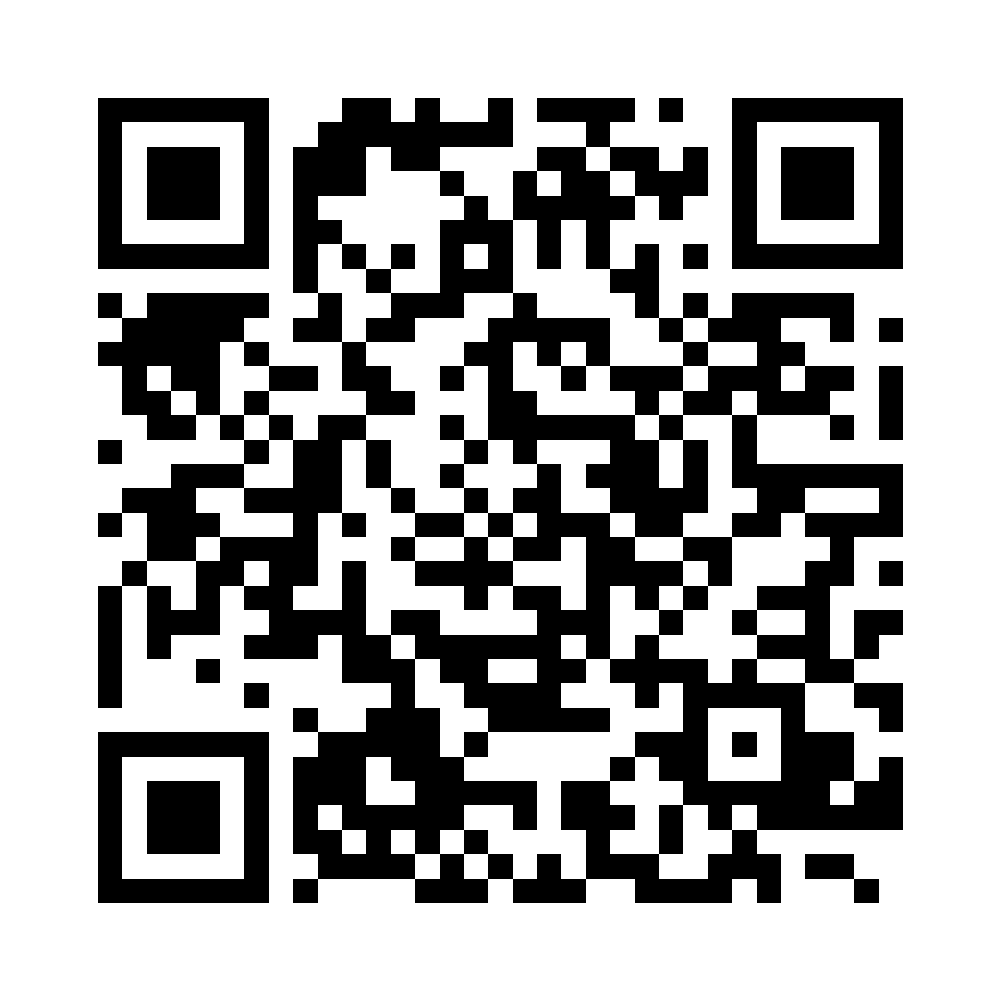
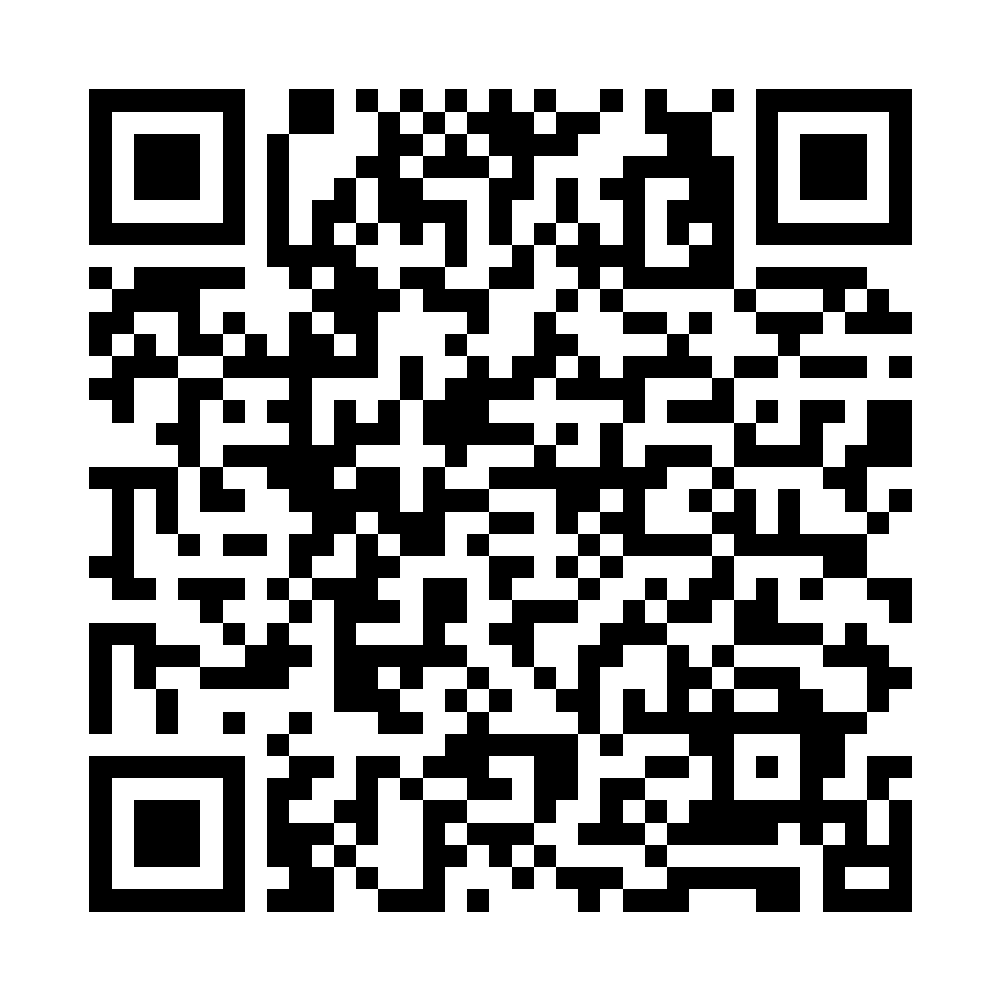
Rotate the static office check-in QR to a new token
Generates a fresh code and invalidates the old printed one.

diff --git a/src/constants/qrPayload.ts b/src/constants/qrPayload.ts
@@ -1,7 +1,7 @@
 // Static, non-expiring check-in QR payload. Print the generated image
 // (see assets/images/office-checkin-qr.png) and display it at the office
 // entrance; ScannerScreen validates scans against this fixed token.
-export const OFFICE_CHECKIN_TOKEN = 'office-checkin-static-v1';
+export const OFFICE_CHECKIN_TOKEN = 'office-checkin-573adffb0ddc671b4eab6031';
 
 export const OFFICE_CHECKIN_PAYLOAD = JSON.stringify({
   type: 'office_checkin',

diff --git a/scripts/generate-qr.js b/scripts/generate-qr.js
@@ -6,7 +6,7 @@ const path = require('path');
 
 const payload = JSON.stringify({
   type: 'office_checkin',
-  token: 'office-checkin-static-v1',
+  token: 'office-checkin-573adffb0ddc671b4eab6031',
 });
 
 const outPath = path.join(__dirname, '..', 'assets', 'images', 'office-checkin-qr.png');
